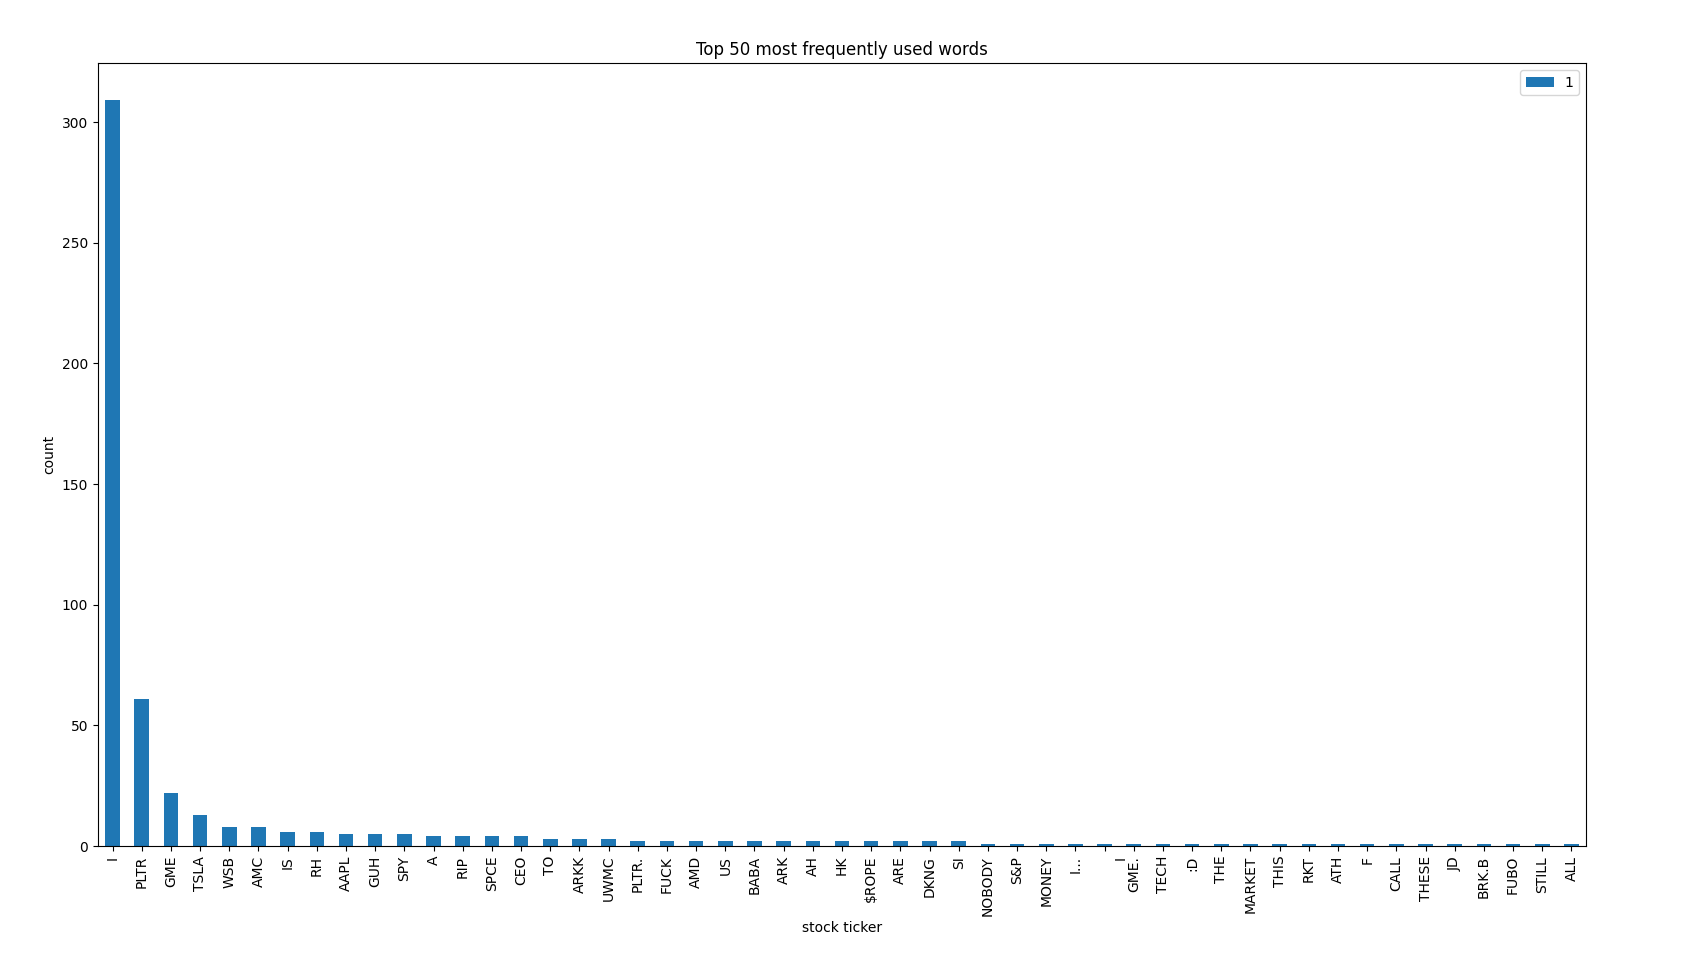
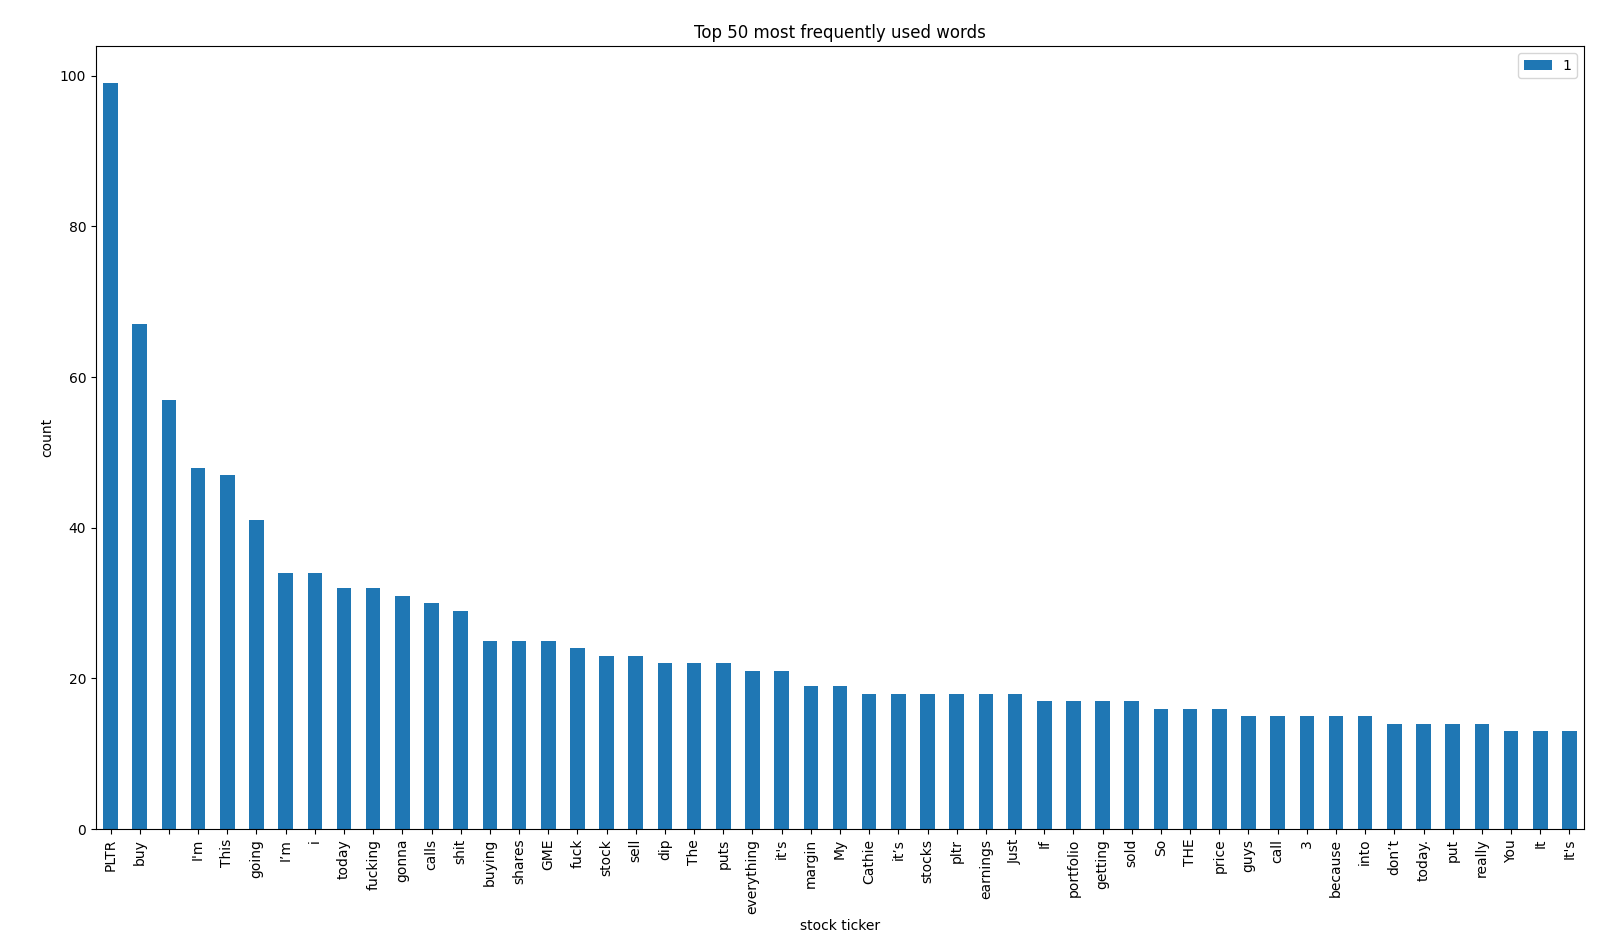
fix plot_most_frequently_used_words function

diff --git a/SentimentAnalysis.py b/SentimentAnalysis.py
@@ -139,7 +139,7 @@ class SentimentAnalysisReddit:
     def plot_most_frequently_used_words(self, top_cutoff):
         """
         Get the top_cutoff most frequently used words on the subreddit and plots its bar graph
-        Used to identify the common jargon of r/wallstreetbets
+        Used to identify the common words/jargon of r/wallstreetbets
         :param top_cutoff: cutoff of the most frequently used words
         :return: None
         """
@@ -153,7 +153,7 @@ class SentimentAnalysisReddit:
                 if comment.score > self.upvotes:
                     words = comment.body.split(" ")
                     for word in words:
-                        if word not in word_count and word.isupper():
+                        if word not in word_count and (word not in common_words or word in financial_lexicon):
                             word_count[word] = 0
                         elif word in word_count:
                             word_count[word] += 1

diff --git a/data.py b/data.py
@@ -1,9 +1,15 @@
 import pandas
 
-data_nasdaq = pandas.read_csv("nasdaq_tickers.csv")
-data_nyse = pandas.read_csv("nyse_tickers.csv")
+# 1000 most common words in english
+common_words = []
+with open("./1-1000.txt", "r") as file: # text file obtained from https://gist.github.com/deekayen/4148741
+    for line in file.readlines():
+        word = line.replace("\n", "")
+        common_words.append(word)
 
 # stock symbols
+data_nasdaq = pandas.read_csv("nasdaq_tickers.csv")
+data_nyse = pandas.read_csv("nyse_tickers.csv")
 symbols = data_nasdaq["Symbol"].tolist() + data_nyse["Symbol"].tolist()
 
 # some stock symbols have the same name as some words
@@ -28,7 +34,7 @@ words_to_ignore = [
     "GOLD",
 ]
 
-# either -1 or 1
+# score is either -1 (negative) or 1 (positive)
 financial_lexicon = {
     # source: https://www.investopedia.com/wallstreetbets-slang-and-memes-5111311
     "bear": -1,

diff --git a/readme.md b/readme.md
@@ -1,8 +1,11 @@
 # Sentiment Analysis Project
-This script scans through the posts of a given finance-related subreddit (particularly r/wallstreebets), detects all the mentioned stock tickers, and evaluates their sentiment (negative becomes bearish and positive becomes bullish) using the nltk.sentiment.vader package.
+This script scans through the posts of a given finance-related subreddit (particularly r/wallstreebets), detects all the mentioned stock tickers, and evaluates their sentiment based on the comment they belong to (negative becomes bearish and positive becomes bullish) using the nltk.sentiment.vader package.
 
 ### Results
 <image src="/results/sentiment-analysis-small.PNG" />
 
 ### Notes
 * The stock tickers used are from NASDAQ and NYSE. They can be found <a href="https://www.nasdaq.com/market-activity/stocks/screener?exchange=nasdaq&letter=0&render=download">here</a>.
+* Each of the exchanges above have their corresponding csv file. Rename them to "nasdaq_tickers.csv" and "nyse_tickers.csv" respectively.
+* The script also needs a praw.ini file with "[bot]" at the top of the file followed by the client_id and client_secret obtained from the reddit API site.
+* Finally, it uses a file called "1-1000.txt" (1000 most frequently used words in english) found <a href="https://gist.github.com/deekayen/4148741">here</a>.
